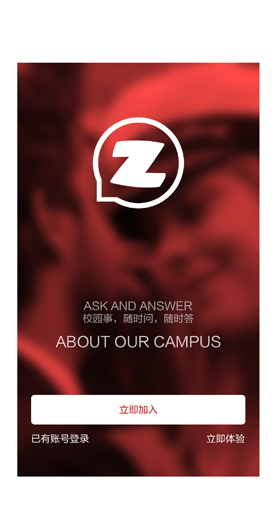
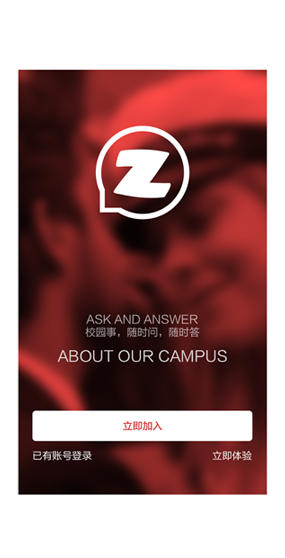
modify home page

diff --git a/Public/Home/Css/website.css b/Public/Home/Css/website.css
@@ -2,109 +2,119 @@ body{
 	margin: 0;
 	padding: 0;
 }
-.maincon{
+.zmcon{
 	width: 100%;
-	height: 611px;
+	height: auto;
 	position: relative;
-	background: url(../Image/background.png);
+	background: url(../Image/background.png) left top no-repeat;
 	background-attachment: fixed;
 	background-size:100% 100%;
 	text-align: center;
+	margin:0 auto;
+	overflow: hidden;
 }
-.maincon .word{
-	position: absolute;
-	width: 253px;
-	height: 74px;
-	right: 1030px;
-	bottom:270px;
+.alignment .col-lg-4{
+  text-align: center;
+}
+.left{
+	height: 600px;
+	width: 445px;
+	float:left;
+	text-align: center;
+}
+.middle{
+	height: 600px;
+	width: 445px;
+	float:left;
+	text-align: center;
+}
+.right{
+	height: 600px;
+	width: 445px;
+	float:left;
+	text-align: center;
+}
+
+/*左边的图像开始*/
+.word{
+	position: relative;
+	width: 300px;
+	height: 520px;
+	float:left;
+	margin-left:60px;
+	margin-top:300px;
+
 }
 .word img{
-	width: 253px;
-	height: 74px;
+	width: 300px;
+	height: auto;
+	margin-left:-45px;
 }
+/*左边的图像结束*/
+/*中间的图像开始*/
 .phone{
-	position: absolute;
+	position: relative;
 	width: 275px;
 	height: 520px;
-	right: 708px;
-	bottom:-1px;
+	float:left;
+	margin-left:45px;
+	margin-top:85px;
+	vertical-align: center;
 }
 .phone img{
-	display: block;
 	width: 275px;
 	height: 520px;
 }
-.logo{
+/*中间的图像结束*/
+/*右边的图像开始*/
+
+.right .logo{
 	height: 112px;
 	width: 112px;
-	position: absolute;
-	right: 392px;
-	top: 170px;
+	float: left;
+	margin-left: 50px;
+	margin-top: 160px;
 }
-.logo img{
-	height: 112px;
-	width: 112px;
-}
-.logo_word{
+.right .logo_word{
+	display: inline-block;
 	height: 64px;
 	width: 131px;
-	position: absolute;
-	right: 211px;
-	top: 195px;
+	float: right;
+	margin-right: 145px;
+	margin-top: 192px;
 }
-.logo_word img{
-	height: 64px;
-	width: 131px;
-}
-.content{
+.right .content{
+	position: relative;
 	width: 416px;
-	height: 101px;
-	position: absolute;
-	right: 148px;
-	bottom: 200px;
+	height: auto;
+	float: left;
+	margin-left: 2px;
+	margin-top: 30px;
 }
-.content img{
-	width: 416px;
+.right .content{
+	width: 350px;
 	height: 101px;
 }
-.Qr_ode{
-	height: 115px;
-	width: 115px;
-	position: absolute;
-	right: 152px;
-	bottom: 50px;
+.right .qr_ode{
+	position: relative;
+	height: 100px;
+	width: 100px;
+	float: right;
+	margin-right: 92px;
+	margin-top: 35px;
 }
-.Qr_ode img{
-	height: 115px;
-	width: 115px;
-}
-.btn{
-	height: 50px;
-	width: 228px;
-	position: absolute;
-	right: 166px;
-	bottom: 40px;
-	padding-top:14px;
-}
-.btn a{
+.right a{
+	float:left;
+	vertical-align: center;
 	text-align: center;
-	height: 50px;
-	width: 228px;
+	width: 215px;
+	margin-left: 6px;
+	margin-top:70px;
 	border-radius: 15px;
+
 }
-.footer{
-	text-align: center;
-	background-color: #ffffff;
-	line-height: 25px;
-	padding:20px 0;
+.right .download{
+	margin-left: -5px;
+	width:200px;
 }
-.footer i{
-	font-style:normal;
-	margin:0 5px;
-}
-.footer a{
-	color:#000;
-}
-.footer a:hover{
-	color:#F60;
-}
+/*右边的图像结束*/

diff --git a/Sys/Home/View/Index/index.html b/Sys/Home/View/Index/index.html
@@ -1,32 +1,30 @@
-  <load href="__PUBLIC__/Home/Css/website.css" />
-    <div class="maincon">
-	    <div class="word">
-	    	<img src="__PUBLIC__/Home/Image/word.png" alt="word">
-	    </div>
-		<div class="phone">
-			<img src="__PUBLIC__/Home/Image/phone.png" alt="phone" />
-		</div>
-		<div class="logo">
-			<img src="__PUBLIC__/Home/Image/logo.png" alt="logo" />
-		</div>
-		<div class="logo_word">
-			<img src="__PUBLIC__/Home/Image/logo_word.png" alt="logo_word">
-		</div>
-		<div class="content">
-			<img src="__PUBLIC__/Home/Image/content.png" alt="content">
-		</div>
-		<div class="btn">
-			<a href="#" type="button" class="btn btn-default">Andriod客户端下载</a>
-		</div>
-		
-		<div class="Qr_ode">
-			<img src="__PUBLIC__/Home/Image/Qr_code.png" alt="Qr_ode" />
+  <load href="__PUBLIC__/Home/Css/website3.css" />
+    <div class="zmcon">
+		<div class="container-fluid">
+		    <div class="row">
+			    <div class="col-ld-4 alignment">
+				    <div class="left">
+					    <div class="word">
+					    	<img src="__PUBLIC__/Home/Image/word.png" alt="word">
+					    </div>
+					 </div>
+			    </div>
+				<div class="col-ld-4">
+					<div class="middle">
+						<div class="phone">
+							<img src="__PUBLIC__/Home/Image/phone.png" alt="phone" />
+						</div>
+					</div>
+				</div>
+				<div class="col-ld-4">
+					<div class="right">
+							<img class="logo" src="__PUBLIC__/Home/Image/logo.png" alt="logo" />
+							<img class="logo_word" src="__PUBLIC__/Home/Image/logo_word.png" alt="logo_word">
+							<img class="content" src="__PUBLIC__/Home/Image/content.png" alt="content">
+							<a href="#" type="button" class="btn btn-default"><img class="download" src="__PUBLIC__/Home/Image/download.png" alt="download"></a>
+							<img class="qr_ode" src="__PUBLIC__/Home/Image/qr_code.png" alt="Qr_ode" />
+					</div>
+				</div>
+			</div>
 		</div>
 	</div>
-	<div class="footer">
-	<p>
-		<a href="#">造么简介</a><i>|</i>
-		<a href="#">联系我们</a><i>|</i>
-	</p>
-	<p>Copyright © 2014 造么版权所有&nbsp;&nbsp;&nbsp; 京ICP备09037834号&nbsp;&nbsp;&nbsp;京ICP证B1034-8373号&nbsp;&nbsp;&nbsp;北京市公安局海淀分局备案编号：123456789123</p>
-</div>

diff --git a/Sys/Home/View/Public/footer.html b/Sys/Home/View/Public/footer.html
@@ -1,8 +1,17 @@
 <load href="__PUBLIC__/Common/Css/sticky-footer.css" />
-<div id="footer">
-	<div class="container">
-		<div class="foot-container">
-    	<p class="text-muted">这里应该是Copyright</p>
- 		</div>
+<load href="__PUBLIC__/Home/Css/footer.css" />
+	<div id="footer">
+		<div class="container">
+			<div class="row">
+				<div class="col-ld-4 alignment">
+					<div class="foot-container">
+						<p class="footertop">
+							<a href="#">关于我们</a><i>|</i>
+							<a href="#">联系我们</a>
+						</p>
+			    	<p class="text-muted">Copyright © 2014 造么版权所有</p>
+			 		</div>
+		 		</div>
+		 	</div>
+		</div>
 	</div>
-</div>

diff --git a/Public/Home/Css/footer.css b/Public/Home/Css/footer.css
@@ -1,0 +1,26 @@
+/*页面底部开始*/
+#footer{
+	text-align: center;
+	background-color: #3F4349;
+	line-height: 35px;
+	padding-top:20px;
+}
+#footer .footertop{
+	margin-top: 5px;
+	font-weight: bold;
+
+}
+#footer i{
+	font-style:normal;
+	margin:0 10px;
+}
+#footer a{
+	color:#000000;
+}
+#footer a:hover{
+	color:#202020;
+}
+.text-muted{
+	font-weight: bold;
+}
+/*页面底部结束*/
